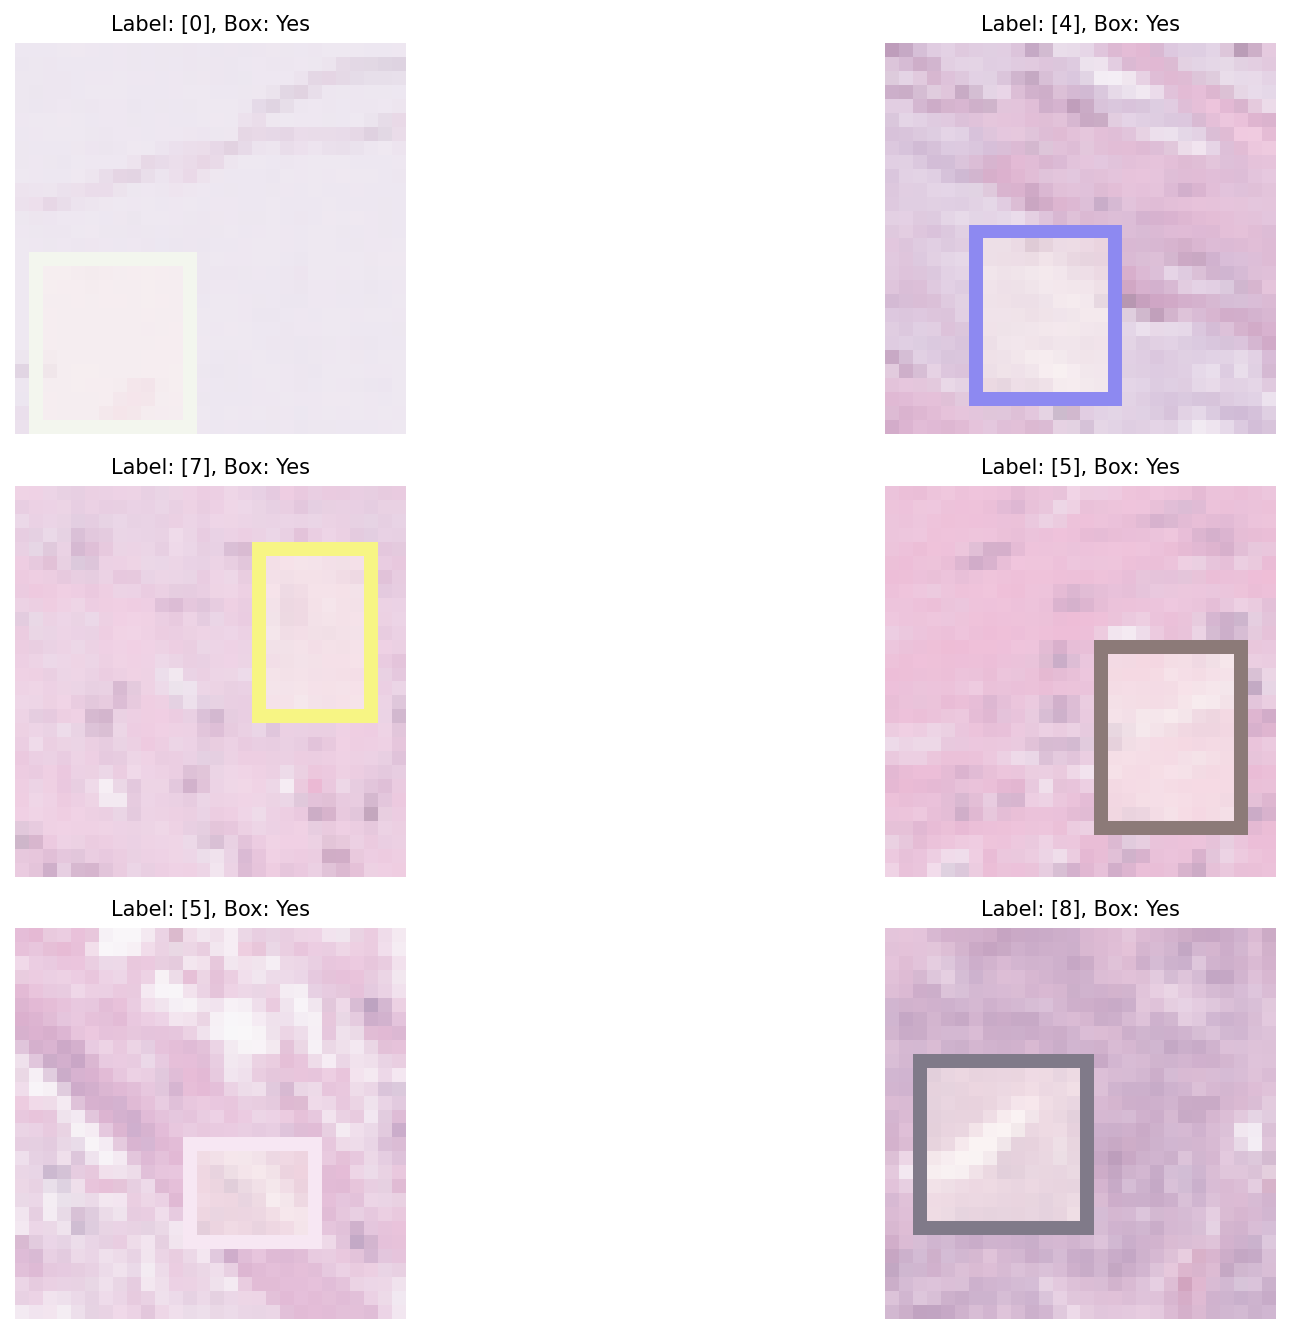
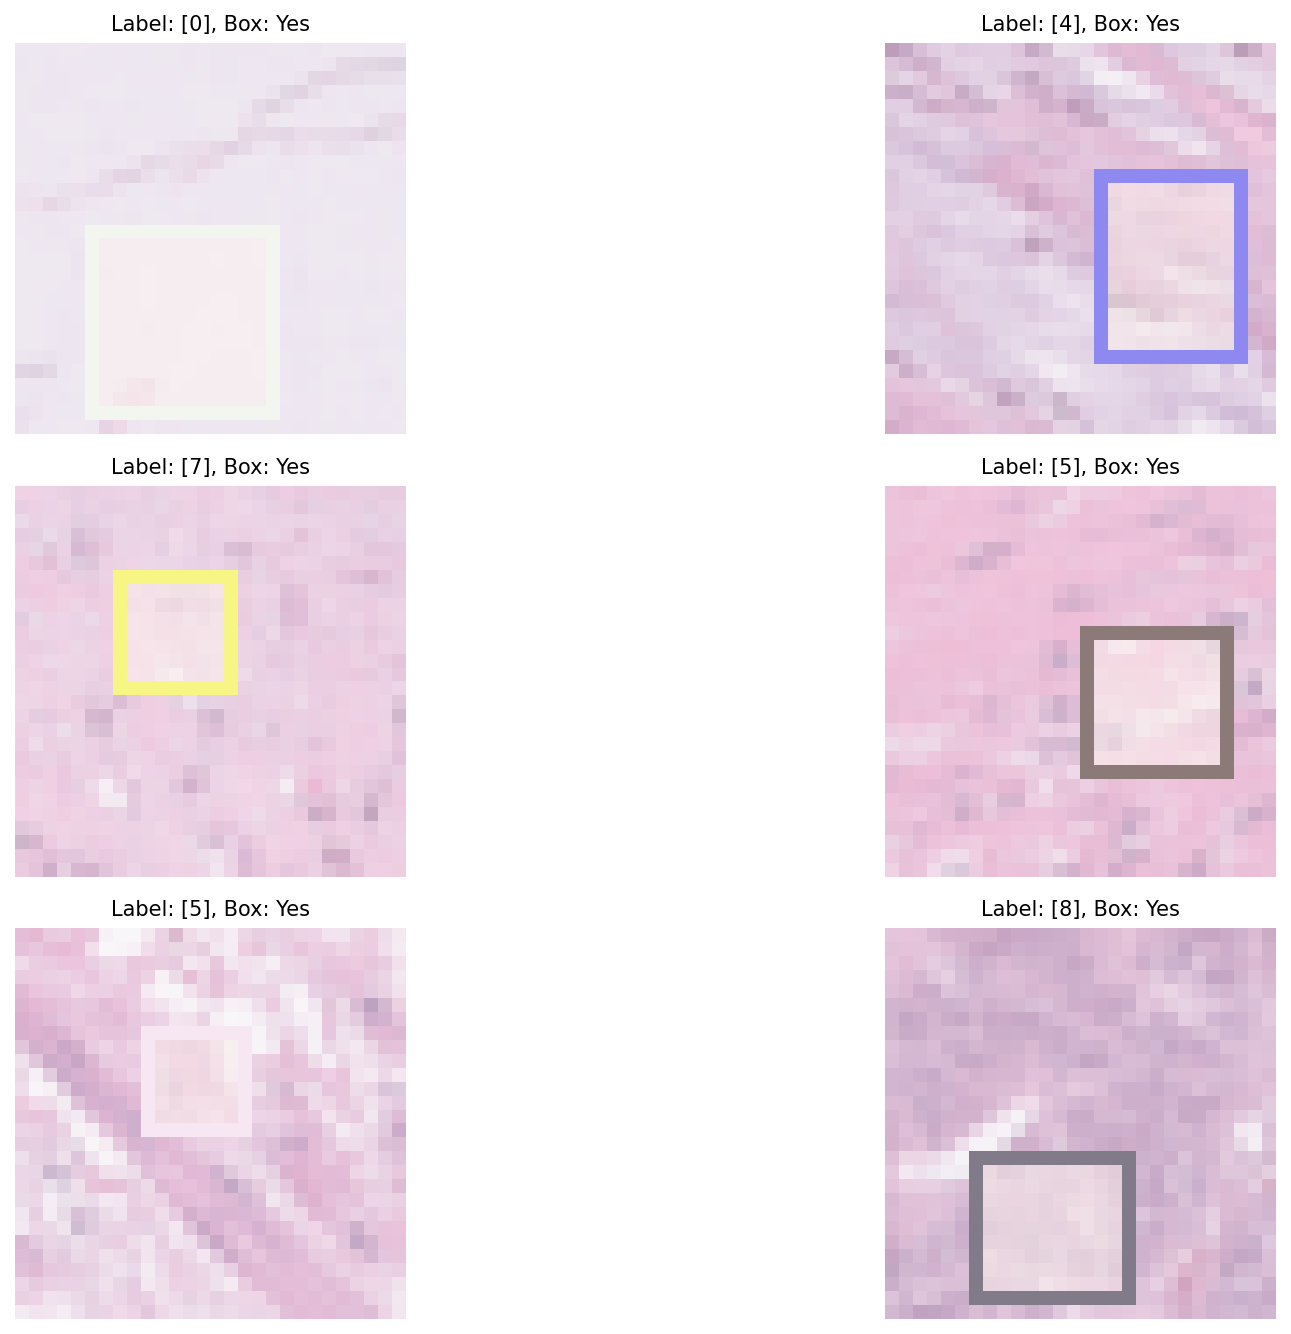
current results w unet

diff --git a/cph-100/project2/segmentation_main.py b/cph-100/project2/segmentation_main.py
@@ -6,10 +6,31 @@ U-Net segmentation of colored boxes on PathMNIST images.
 import sys
 import os
 import torch
+import pandas as pd
 
 from synthetic_data import create_box_dataloaders, visualize_box_samples, PathMNISTBoxDataset
 from segmentation_models import get_segmentation_model, count_parameters
 from segmentation_train import train_segmentation_model, evaluate_segmentation_model, visualize_predictions
+
+# Save IoU metrics to CSV
+
+
+def save_iou_history(history, test_iou=None, csv_path="results/segmentation_metrics.csv"):
+    os.makedirs(os.path.dirname(csv_path), exist_ok=True)
+
+    epochs = range(1, len(history['val_iou']) + 1)
+    df = pd.DataFrame({
+        "epoch": epochs,
+        "train_iou": history['train_iou'],
+        "val_iou": history['val_iou'],
+    })
+
+    # If you also have test IoU, append it as a constant column
+    if test_iou is not None:
+        df["test_iou"] = [test_iou] * len(df)
+
+    df.to_csv(csv_path, index=False)
+    print(f"✅ IoU history saved to {csv_path}")
 
 
 def main(args):
@@ -64,7 +85,7 @@ def main(args):
         epochs=args.num_epochs,
         learning_rate=args.learning_rate,
         weight_decay=args.weight_decay,
-        max_steps_per_epoch=100  # Fast exploration mode
+        max_steps_per_epoch=200  # Fast exploration mode
     )
 
     # Evaluate model on validation set
@@ -76,6 +97,13 @@ def main(args):
     val_iou = val_results['mean_iou']
     print(f"\n📊 {args.model_name.upper()} Results:")
     print(f"   Final Validation IoU: {val_iou:.4f}")
+
+    # Save IoU history
+    save_iou_history(
+        history,
+        test_iou=None,
+        csv_path=f'results/{args.model_name}_segmentation_metrics.csv'
+    )
 
     # Visualize predictions
     print(f"\nVisualizing {args.model_name} predictions...")
@@ -94,8 +122,7 @@ if __name__ == "__main__":
     parser = argparse.ArgumentParser(
         description='PathMNIST Black Box Segmentation')
     parser.add_argument('--model_name', type=str, default='unet',
-                        # TODO: add your models names here
-                        choices=['mlp', 'unet'],
+                        choices=['mlp', 'cnn', 'unet'],
                         help='Segmentation model to train')
     parser.add_argument('--learning_rate', type=float, default=0.001,
                         help='Learning rate for training')

diff --git a/cph-100/project2/classification_models.py b/cph-100/project2/classification_models.py
@@ -96,7 +96,6 @@ def get_model(model_name, num_classes=9):
     elif model_name == 'cnn':
         return CNNModel(num_classes)
     else:
-        # TODO: add your models names here
         raise ValueError("Unknown model: {}".format(model_name))
 
 

diff --git a/data-101/lec/8-ER Diagrams.md b/data-101/lec/8-ER Diagrams.md
@@ -28,3 +28,40 @@ A **primary key** is a set of attributes that uniquely identify each record
 - unique, non-null
 - represent PKs by underlining the attribute
 - every entity set is required to have a PK
+
+## Normalization
+Process of splitting relations into multiple to **minimize redundancy**
+- can lead to overhead due to joins
+
+### Functional Dependencies (FDs)
+Constraints between two sets of attributes in a relation
+- used to guide normalization
+- captures "keys"
+
+$$X \to Y$$
+
+A relational instance satisfies this FD if for *every pair* of tuples $t1$ and $t2$
+- if $t1.X = t2.X$, then $t1.Y = t2.Y$
+
+$$AB \to C$$
+A relational instance satisfies this FD if for *every pair* of tuples $t1$ and $t2$
+- if $t1.A = t2.A$ **and** $t1.B = t2.B$, then $t1.Y = t2.Y$
+
+Suppose we find the 2 FDs across the entire relational instance:
+- SSN $\to$ Address
+- SSN $\not\to$ Phone Number
+- Address $\not\to$ Phone Number
+
+causes us to normalize, or decompose/"factor out" SSN and Address into separate relations
+
+|            |             |                |
+| ---------- | ----------- | -------------- |
+| Address    | SSN         | phone number   |
+| 10 Green   | 123-456-789 | (201) 233-1456 |
+| 10 Green   | 123-456-789 | (201) 123-3439 |
+| 431 Purple | 987-654-321 | (145) 241-2131 |
+| 431 Purple | 987-654-321 | (312) 123-1287 |
+| …          | …           | …              |
+Certain FDs are "special" and help us identify keys
+- ex. primary key FD: movies(title, director, price, update, studio_name)
+- title → director, price, update, studio_name

diff --git a/cph-100/project2/results.md b/cph-100/project2/results.md
@@ -1,13 +1,19 @@
 # Results
 
-## 1 epoch, 100 steps
+## Part 1: CNN
 
-MLP validation accuracy: 0.3368
+1 epoch, 100 steps
 
-CNN validation accuracy: ...
+- MLP validation accuracy: 0.3368
+- CNN validation accuracy: ...
 
-## Final model
+Final model
 
-MLP validation accuracy: 0.5644
+- MLP validation accuracy: 0.5644
+- CNN validation accuracy: 0.9363
 
-CNN validation accuracy: 0.9363
+## Part 2: Segmentation
+
+Final model
+
+- U-NET IoU accuracy: 0.9982
